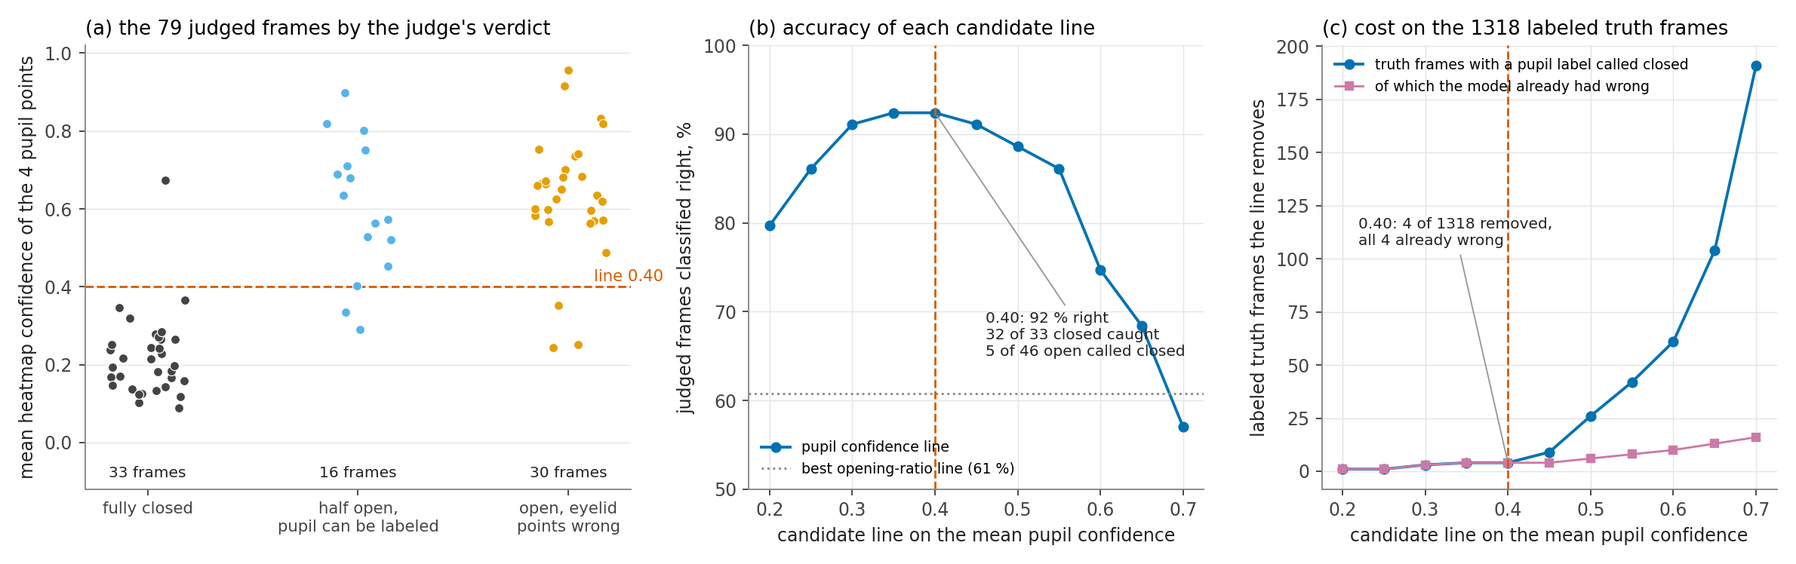
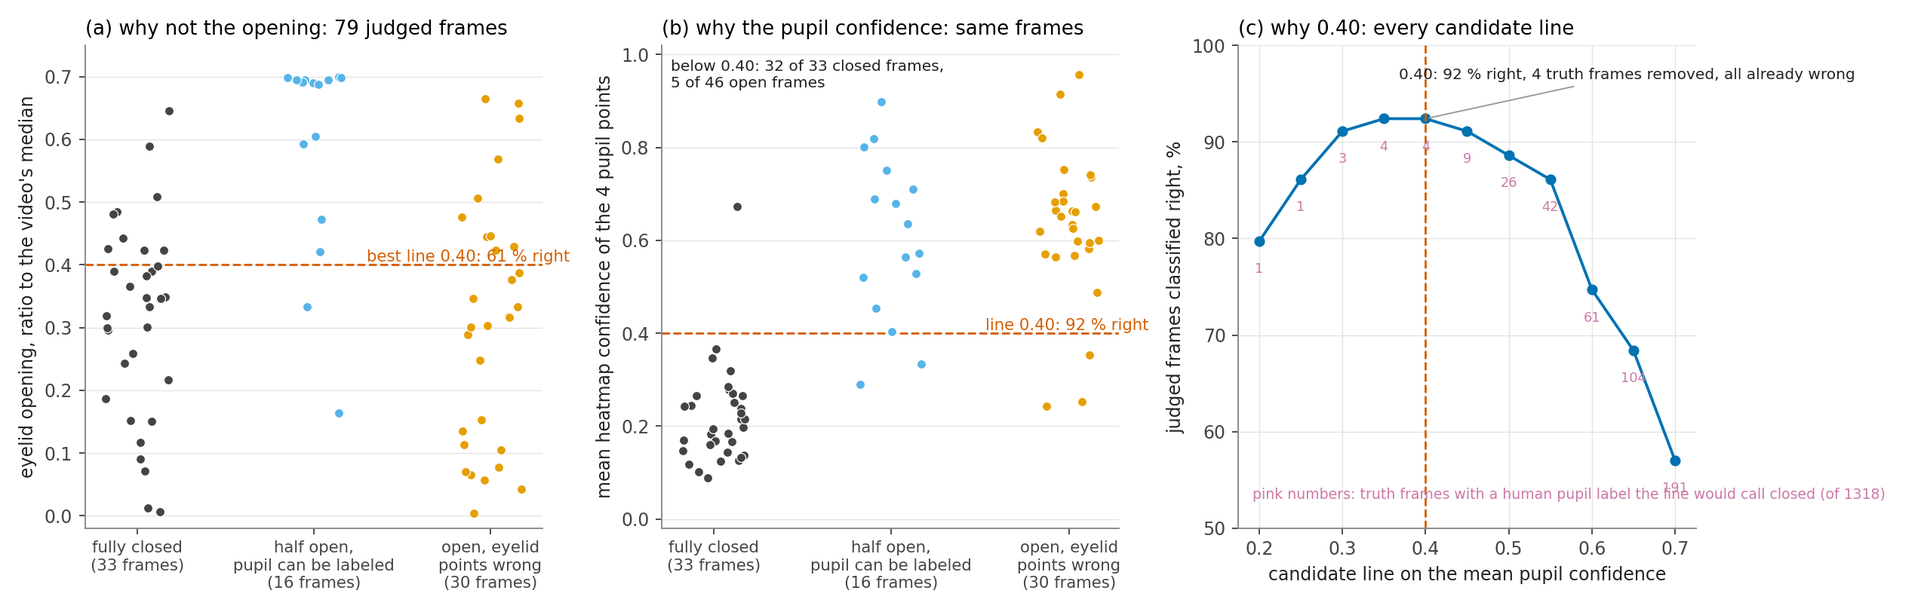
Page 4a figure: why the confidence and why 0.40 (opening and confidence of the same judged frames, every candidate line with its truth-frame cost); 5a heading

diff --git a/report/index.html b/report/index.html
@@ -81,7 +81,7 @@ math[display="block"]{margin:10px 0 6px;text-align:left;overflow-x:auto;max-widt
 
 <header>
   <h1><span lang="zh">小鼠眼睛关键点追踪：做了什么，结果是什么</span><span lang="en">Mouse eye keypoint tracking: what was done and what came out</span></h1>
-  <p class="muted small">Zhiheng Li (University of Minnesota), Kaiwen Sheng (Stanford) · <span lang="zh">页面生成时间</span><span lang="en">page built</span> 2026-11-08 10:35 · <a href="https://github.com/ZhihengLi0/mouse-behavior-tracking">GitHub: ZhihengLi0/mouse-behavior-tracking</a></p>
+  <p class="muted small">Zhiheng Li (University of Minnesota), Kaiwen Sheng (Stanford) · <span lang="zh">页面生成时间</span><span lang="en">page built</span> 2026-11-08 10:36 · <a href="https://github.com/ZhihengLi0/mouse-behavior-tracking">GitHub: ZhihengLi0/mouse-behavior-tracking</a></p>
 
   <div class="text" lang="zh">
     <p><b>任务：</b>用 DeepLabCut 在小鼠眼睛视频的每一帧上找 8 个点：瞳孔上、下、左、右，上眼睑、下眼睑，鼻侧眼角、颞侧眼角。由这 8 个点得到瞳孔大小、眼睛睁开程度和眨眼，之后与脑记录对齐。</p>
@@ -1959,8 +1959,8 @@ math[display="block"]{margin:10px 0 6px;text-align:left;overflow-x:auto;max-widt
   </tbody></table></div>
   <figure>
     <div class="figbox wide"><img src="assets/fig_loop_exp4a.png" alt="Experiment 4a: pupil confidence of the judged frames by verdict, accuracy of each candidate line, and the truth frames each line removes"></div>
-    <figcaption lang="zh"><span class="tag">图 9-22：</span>实验四 4a，为什么线定在 0.40。(a) 79 帧判定帧的瞳孔置信度，按判定分三列：全闭的帧几乎都在 0.40 以下（33 帧里 32 帧），半开和睁着的帧几乎都在 0.40 以上（46 帧里 41 帧）。(b) 每条候选线在判定帧上的准确率，0.35 和 0.40 都是 92%，虚线是开度比上最好的线（61%）。(c) 每条线在 1318 帧标了瞳孔的真值帧上排掉的帧数，0.40 排掉 4 帧、全是模型本来就错的帧；再往上代价陡增。</figcaption>
-    <figcaption lang="en"><span class="tag">Figure 9-22:</span>Experiment 4a, why the line sits at 0.40. (a) Pupil confidence of the 79 judged frames in three columns by verdict: the fully closed frames lie almost all below 0.40 (32 of 33), the half-open and open frames almost all above (41 of 46). (b) Accuracy of each candidate line on the judged frames, 0.35 and 0.40 both at 92%; the dotted line is the best opening-ratio line (61%). (c) Truth frames with a pupil label that each line removes, of 1318: 0.40 removes 4, all already wrong; above it the cost rises steeply.</figcaption>
+    <figcaption lang="zh"><span class="tag">图 9-22：</span>实验四 4a，两个问题。(a) 为什么不用开度：79 帧判定帧的开度比，按人眼判定分三列，真闭眼（深灰）和睁着但眼睑点错（橙）的帧混在同一范围，最好的一条线也只对 61%。(b) 为什么用瞳孔置信度：同样的帧换成瞳孔四点平均置信度，真闭眼几乎全在 0.40 以下（33 帧里 32 帧），睁眼几乎全在 0.40 以上（46 帧里 41 帧）。(c) 为什么是 0.40：每条候选线在判定帧上的准确率，0.35 和 0.40 并列最高（92%）；粉色数字是这条线会在 1318 帧标了瞳孔的真值帧上排掉多少帧，0.40 排掉 4 帧、全是模型本来就错的帧，再往上代价陡增，所以取 0.40。</figcaption>
+    <figcaption lang="en"><span class="tag">Figure 9-22:</span>Experiment 4a, two questions. (a) Why not the opening: the opening ratio of the 79 judged frames in three columns by verdict; truly closed eyes (dark grey) and open eyes with wrong eyelid points (orange) share the same range, and the best line is right on 61% only. (b) Why the pupil confidence: the same frames by the mean confidence of the four pupil points; the closed frames lie almost all below 0.40 (32 of 33), the open ones almost all above (41 of 46). (c) Why 0.40: accuracy of each candidate line on the judged frames, 0.35 and 0.40 tied at 92%; the pink numbers are the truth frames with a human pupil label (of 1318) the line would call closed, 4 at 0.40, all already wrong, and steeply more above it, hence 0.40.</figcaption>
   </figure>
   <div class="concl" lang="zh"><span class="tag">4a 的结论：</span>闭眼 = 瞳孔四点平均置信度低于 0.40。开度分不开真闭眼和眼睑点错的睁眼帧（最好 61%）；置信度分得开（92%，33 帧真闭眼抓到 32，46 帧睁眼误判 5），在真值帧上只排掉 4 帧、全是本来就错的帧。换成这条判据后 19 个视频判闭眼的帧从 8058 变为 7358，修复的帧从 14,395 变为 15,878；真值帧 23 帧错帧修好 16（原 15），仍标出 2（原 4），修坏仍是 1。</div>
   <div class="concl" lang="en"><span class="tag">Conclusion of 4a:</span>closed = mean confidence of the four pupil points below 0.40. The opening does not separate a truly closed eye from an open eye with wrong eyelid points (61% at best); the confidence does (92%, 32 of 33 closed frames caught, 5 of 46 open frames called closed) and removes only 4 truth frames, all already wrong. With this criterion the 19 videos have 7358 closed frames instead of 8058 and 15,878 repaired frames instead of 14,395; on the truth frames 16 of the 23 wrong frames are repaired (15 before), 2 stay flagged (4), 1 is still made worse.</div>
@@ -2002,7 +2002,7 @@ math[display="block"]{margin:10px 0 6px;text-align:left;overflow-x:auto;max-widt
   <div class="text" lang="en">
     <p>Experiments 1 to 4 each proved one part of the loop: the unflagged frames help, the repaired frames help, both together improve turn after turn, and with the confidence closed-eye rule the reopened frames help too. Experiment 5 puts the settled parts together as the final version. One part is still to settle: when several points of a frame are over the threshold and more than one replacement passes the acceptance, which points to replace. 9.3 used an order set at design time; here it is settled by experiment (5a), then the loop is run again from the starting models with every settled rule (5b).</p>
   </div>
-  <p class="text"><b><span lang="zh">5a 修复方法选择实验</span><span lang="en">5a Choosing the repair's subset rule</span></b></p>
+  <p class="text"><b><span lang="zh">5a 实验：修复方法选择</span><span lang="en">5a Experiment: choosing the repair method</span></b></p>
   <div class="tablebox"><table class="info"><tbody>
     <tr><th><span lang="zh">这一节的真值是什么</span><span lang="en">What counts as truth in this section</span></th><td><span lang="zh">两种。真值帧层：1330 帧人工标注的真值帧（和 9.3 相同），修复后误差过 0.14 眼宽算仍错。人眼层：四个变体换法不同的帧没有标注，真值是标注者本人逐帧的判定，每帧并排看到原帧、模型的 8 个点、每个不同结果一个面板（蓝圈是换上去的点，箭头从模型原来的位置指过去，结果相同的变体合成一个面板），问哪个结果的 8 个点全部在正确位置；可选的答案还有：模型原来的点就对、几个面板要合起来才对、换的点对但另有没找出来的错点、都不对、看不清。判定时看不到哪个变体是 9.3 在用的。</span><span lang="en">Two kinds. Truth-frame level: the 1330 human-labeled truth frames (as in 9.3), a frame counting as still wrong when its error after the repair is above 0.14 eye widths. By-eye level: the frames where the four variants differ have no labels, so the truth is the labeler's own frame-by-frame judgment; each frame shows side by side the raw frame, the model's 8 points and one panel per distinct result (blue circles the replaced points, arrows from the model's position, variants with the same result sharing a panel), asking which result has all 8 points right; further answers: the model as it was, several panels needed together, the moved point right but another uncaught point wrong, none, cannot tell. The judge does not see which variant 9.3 uses.</span></td></tr>
     <tr><th><span lang="zh">问题</span><span lang="en">Question</span></th><td><span lang="zh">9.3 的最小子集替换先试单点再试两点，第一个通过验收的子集就用；单点的顺序是先眼睑眼角、后瞳孔。整段 19 个视频修复的 14,395 帧里有 1398 帧（9.8%）没有换偏差最大的那个点，这是不是顺序的问题？</span><span lang="en">The smallest-subset replacement of 9.3 tries single points before pairs and uses the first subset that passes the acceptance; singles are tried outline points first, pupil points after. Of the 14,395 frames repaired on the 19 videos, 1398 (9.8%) do not replace the point of largest deviation: is the order at fault?</span></td></tr>

diff --git a/report/template.html b/report/template.html
@@ -1851,8 +1851,8 @@ math[display="block"]{margin:10px 0 6px;text-align:left;overflow-x:auto;max-widt
   </tbody></table></div>
   <figure>
     <div class="figbox wide"><img src="assets/fig_loop_exp4a.png" alt="Experiment 4a: pupil confidence of the judged frames by verdict, accuracy of each candidate line, and the truth frames each line removes"></div>
-    <figcaption lang="zh"><span class="tag">图 9-22：</span>实验四 4a，为什么线定在 0.40。(a) 79 帧判定帧的瞳孔置信度，按判定分三列：全闭的帧几乎都在 0.40 以下（33 帧里 32 帧），半开和睁着的帧几乎都在 0.40 以上（46 帧里 41 帧）。(b) 每条候选线在判定帧上的准确率，0.35 和 0.40 都是 92%，虚线是开度比上最好的线（61%）。(c) 每条线在 1318 帧标了瞳孔的真值帧上排掉的帧数，0.40 排掉 4 帧、全是模型本来就错的帧；再往上代价陡增。</figcaption>
-    <figcaption lang="en"><span class="tag">Figure 9-22:</span>Experiment 4a, why the line sits at 0.40. (a) Pupil confidence of the 79 judged frames in three columns by verdict: the fully closed frames lie almost all below 0.40 (32 of 33), the half-open and open frames almost all above (41 of 46). (b) Accuracy of each candidate line on the judged frames, 0.35 and 0.40 both at 92%; the dotted line is the best opening-ratio line (61%). (c) Truth frames with a pupil label that each line removes, of 1318: 0.40 removes 4, all already wrong; above it the cost rises steeply.</figcaption>
+    <figcaption lang="zh"><span class="tag">图 9-22：</span>实验四 4a，两个问题。(a) 为什么不用开度：79 帧判定帧的开度比，按人眼判定分三列，真闭眼（深灰）和睁着但眼睑点错（橙）的帧混在同一范围，最好的一条线也只对 61%。(b) 为什么用瞳孔置信度：同样的帧换成瞳孔四点平均置信度，真闭眼几乎全在 0.40 以下（33 帧里 32 帧），睁眼几乎全在 0.40 以上（46 帧里 41 帧）。(c) 为什么是 0.40：每条候选线在判定帧上的准确率，0.35 和 0.40 并列最高（92%）；粉色数字是这条线会在 1318 帧标了瞳孔的真值帧上排掉多少帧，0.40 排掉 4 帧、全是模型本来就错的帧，再往上代价陡增，所以取 0.40。</figcaption>
+    <figcaption lang="en"><span class="tag">Figure 9-22:</span>Experiment 4a, two questions. (a) Why not the opening: the opening ratio of the 79 judged frames in three columns by verdict; truly closed eyes (dark grey) and open eyes with wrong eyelid points (orange) share the same range, and the best line is right on 61% only. (b) Why the pupil confidence: the same frames by the mean confidence of the four pupil points; the closed frames lie almost all below 0.40 (32 of 33), the open ones almost all above (41 of 46). (c) Why 0.40: accuracy of each candidate line on the judged frames, 0.35 and 0.40 tied at 92%; the pink numbers are the truth frames with a human pupil label (of 1318) the line would call closed, 4 at 0.40, all already wrong, and steeply more above it, hence 0.40.</figcaption>
   </figure>
   <div class="concl" lang="zh"><span class="tag">4a 的结论：</span>闭眼 = 瞳孔四点平均置信度低于 0.40。开度分不开真闭眼和眼睑点错的睁眼帧（最好 61%）；置信度分得开（92%，33 帧真闭眼抓到 32，46 帧睁眼误判 5），在真值帧上只排掉 4 帧、全是本来就错的帧。换成这条判据后 19 个视频判闭眼的帧从 8058 变为 7358，修复的帧从 14,395 变为 15,878；真值帧 23 帧错帧修好 16（原 15），仍标出 2（原 4），修坏仍是 1。</div>
   <div class="concl" lang="en"><span class="tag">Conclusion of 4a:</span>closed = mean confidence of the four pupil points below 0.40. The opening does not separate a truly closed eye from an open eye with wrong eyelid points (61% at best); the confidence does (92%, 32 of 33 closed frames caught, 5 of 46 open frames called closed) and removes only 4 truth frames, all already wrong. With this criterion the 19 videos have 7358 closed frames instead of 8058 and 15,878 repaired frames instead of 14,395; on the truth frames 16 of the 23 wrong frames are repaired (15 before), 2 stay flagged (4), 1 is still made worse.</div>
@@ -1894,7 +1894,7 @@ math[display="block"]{margin:10px 0 6px;text-align:left;overflow-x:auto;max-widt
   <div class="text" lang="en">
     <p>Experiments 1 to 4 each proved one part of the loop: the unflagged frames help, the repaired frames help, both together improve turn after turn, and with the confidence closed-eye rule the reopened frames help too. Experiment 5 puts the settled parts together as the final version. One part is still to settle: when several points of a frame are over the threshold and more than one replacement passes the acceptance, which points to replace. 9.3 used an order set at design time; here it is settled by experiment (5a), then the loop is run again from the starting models with every settled rule (5b).</p>
   </div>
-  <p class="text"><b><span lang="zh">5a 修复方法选择实验</span><span lang="en">5a Choosing the repair's subset rule</span></b></p>
+  <p class="text"><b><span lang="zh">5a 实验：修复方法选择</span><span lang="en">5a Experiment: choosing the repair method</span></b></p>
   <div class="tablebox"><table class="info"><tbody>
     <tr><th><span lang="zh">这一节的真值是什么</span><span lang="en">What counts as truth in this section</span></th><td><span lang="zh">两种。真值帧层：1330 帧人工标注的真值帧（和 9.3 相同），修复后误差过 0.14 眼宽算仍错。人眼层：四个变体换法不同的帧没有标注，真值是标注者本人逐帧的判定，每帧并排看到原帧、模型的 8 个点、每个不同结果一个面板（蓝圈是换上去的点，箭头从模型原来的位置指过去，结果相同的变体合成一个面板），问哪个结果的 8 个点全部在正确位置；可选的答案还有：模型原来的点就对、几个面板要合起来才对、换的点对但另有没找出来的错点、都不对、看不清。判定时看不到哪个变体是 9.3 在用的。</span><span lang="en">Two kinds. Truth-frame level: the 1330 human-labeled truth frames (as in 9.3), a frame counting as still wrong when its error after the repair is above 0.14 eye widths. By-eye level: the frames where the four variants differ have no labels, so the truth is the labeler's own frame-by-frame judgment; each frame shows side by side the raw frame, the model's 8 points and one panel per distinct result (blue circles the replaced points, arrows from the model's position, variants with the same result sharing a panel), asking which result has all 8 points right; further answers: the model as it was, several panels needed together, the moved point right but another uncaught point wrong, none, cannot tell. The judge does not see which variant 9.3 uses.</span></td></tr>
     <tr><th><span lang="zh">问题</span><span lang="en">Question</span></th><td><span lang="zh">9.3 的最小子集替换先试单点再试两点，第一个通过验收的子集就用；单点的顺序是先眼睑眼角、后瞳孔。整段 19 个视频修复的 14,395 帧里有 1398 帧（9.8%）没有换偏差最大的那个点，这是不是顺序的问题？</span><span lang="en">The smallest-subset replacement of 9.3 tries single points before pairs and uses the first subset that passes the acceptance; singles are tried outline points first, pupil points after. Of the 14,395 frames repaired on the 19 videos, 1398 (9.8%) do not replace the point of largest deviation: is the order at fault?</span></td></tr>

diff --git a/report/index_en.html b/report/index_en.html
@@ -78,7 +78,7 @@ math[display="block"]{margin:10px 0 6px;text-align:left;overflow-x:auto;max-widt
 
 <header>
   <h1><span lang="en">Mouse eye keypoint tracking: what was done and what came out</span></h1>
-  <p class="muted small">Zhiheng Li (University of Minnesota), Kaiwen Sheng (Stanford) · <span lang="en">page built</span> 2026-11-08 10:35 · <a href="https://github.com/ZhihengLi0/mouse-behavior-tracking">GitHub: ZhihengLi0/mouse-behavior-tracking</a></p>
+  <p class="muted small">Zhiheng Li (University of Minnesota), Kaiwen Sheng (Stanford) · <span lang="en">page built</span> 2026-11-08 10:36 · <a href="https://github.com/ZhihengLi0/mouse-behavior-tracking">GitHub: ZhihengLi0/mouse-behavior-tracking</a></p>
 
   
   <div class="text" lang="en">
@@ -1496,7 +1496,7 @@ math[display="block"]{margin:10px 0 6px;text-align:left;overflow-x:auto;max-widt
   <figure>
     <div class="figbox wide"><img src="assets/fig_loop_exp4a.png" alt="Experiment 4a: pupil confidence of the judged frames by verdict, accuracy of each candidate line, and the truth frames each line removes"></div>
     
-    <figcaption lang="en"><span class="tag">Figure 9-22:</span>Experiment 4a, why the line sits at 0.40. (a) Pupil confidence of the 79 judged frames in three columns by verdict: the fully closed frames lie almost all below 0.40 (32 of 33), the half-open and open frames almost all above (41 of 46). (b) Accuracy of each candidate line on the judged frames, 0.35 and 0.40 both at 92%; the dotted line is the best opening-ratio line (61%). (c) Truth frames with a pupil label that each line removes, of 1318: 0.40 removes 4, all already wrong; above it the cost rises steeply.</figcaption>
+    <figcaption lang="en"><span class="tag">Figure 9-22:</span>Experiment 4a, two questions. (a) Why not the opening: the opening ratio of the 79 judged frames in three columns by verdict; truly closed eyes (dark grey) and open eyes with wrong eyelid points (orange) share the same range, and the best line is right on 61% only. (b) Why the pupil confidence: the same frames by the mean confidence of the four pupil points; the closed frames lie almost all below 0.40 (32 of 33), the open ones almost all above (41 of 46). (c) Why 0.40: accuracy of each candidate line on the judged frames, 0.35 and 0.40 tied at 92%; the pink numbers are the truth frames with a human pupil label (of 1318) the line would call closed, 4 at 0.40, all already wrong, and steeply more above it, hence 0.40.</figcaption>
   </figure>
   
   <div class="concl" lang="en"><span class="tag">Conclusion of 4a:</span>closed = mean confidence of the four pupil points below 0.40. The opening does not separate a truly closed eye from an open eye with wrong eyelid points (61% at best); the confidence does (92%, 32 of 33 closed frames caught, 5 of 46 open frames called closed) and removes only 4 truth frames, all already wrong. With this criterion the 19 videos have 7358 closed frames instead of 8058 and 15,878 repaired frames instead of 14,395; on the truth frames 16 of the 23 wrong frames are repaired (15 before), 2 stay flagged (4), 1 is still made worse.</div>
@@ -1536,7 +1536,7 @@ math[display="block"]{margin:10px 0 6px;text-align:left;overflow-x:auto;max-widt
   <div class="text" lang="en">
     <p>Experiments 1 to 4 each proved one part of the loop: the unflagged frames help, the repaired frames help, both together improve turn after turn, and with the confidence closed-eye rule the reopened frames help too. Experiment 5 puts the settled parts together as the final version. One part is still to settle: when several points of a frame are over the threshold and more than one replacement passes the acceptance, which points to replace. 9.3 used an order set at design time; here it is settled by experiment (5a), then the loop is run again from the starting models with every settled rule (5b).</p>
   </div>
-  <p class="text"><b><span lang="en">5a Choosing the repair's subset rule</span></b></p>
+  <p class="text"><b><span lang="en">5a Experiment: choosing the repair method</span></b></p>
   <div class="tablebox"><table class="info"><tbody>
     <tr><th><span lang="en">What counts as truth in this section</span></th><td><span lang="en">Two kinds. Truth-frame level: the 1330 human-labeled truth frames (as in 9.3), a frame counting as still wrong when its error after the repair is above 0.14 eye widths. By-eye level: the frames where the four variants differ have no labels, so the truth is the labeler's own frame-by-frame judgment; each frame shows side by side the raw frame, the model's 8 points and one panel per distinct result (blue circles the replaced points, arrows from the model's position, variants with the same result sharing a panel), asking which result has all 8 points right; further answers: the model as it was, several panels needed together, the moved point right but another uncaught point wrong, none, cannot tell. The judge does not see which variant 9.3 uses.</span></td></tr>
     <tr><th><span lang="en">Question</span></th><td><span lang="en">The smallest-subset replacement of 9.3 tries single points before pairs and uses the first subset that passes the acceptance; singles are tried outline points first, pupil points after. Of the 14,395 frames repaired on the 19 videos, 1398 (9.8%) do not replace the point of largest deviation: is the order at fault?</span></td></tr>

diff --git a/v2_new_pupil_top_video_scaling/scripts/self_training_figures.py b/v2_new_pupil_top_video_scaling/scripts/self_training_figures.py
@@ -347,9 +347,9 @@ def _closed_counts(v, model):
 
 
 def fig_exp4a():
-    """Experiment 4a: why the closed-eye line sits at a mean pupil confidence of 0.40. (a) the judged frames' confidence
-    by verdict; (b) accuracy of every candidate line on the judged frames, the best opening-ratio line as reference;
-    (c) what each line costs on the labeled truth frames."""
+    """Experiment 4a, two questions: why the pupil confidence (the opening ratio does not separate the judged closed
+    frames from the open ones, the confidence does) and why 0.40 (accuracy of every candidate line, with the truth
+    frames each line would remove)."""
     S = pd.read_csv(FAR / "closed_frames" / "sample.csv")
     V = pd.read_csv(FAR / "closed_frames" / "closed_review_verdicts.csv")
     V = V[~V.item.str.contains(":")]
@@ -358,50 +358,47 @@ def fig_exp4a():
     chosen = float(pd.read_csv(FAR / "closed_frames" / "closed_line_chosen.csv").iloc[0].pupil_confidence_line)
     C = pd.read_csv(FAR / "closed_frames" / "confidence_line_candidates.csv")
     O = pd.read_csv(FAR / "closed_frames" / "line_candidates.csv")
+    closed = J.verdict == "fully closed"
     cats = [("fully closed", "#444444"), ("half open, pupil can be labeled", "#56b4e9"), ("open, eyelid points wrong", "#e69f00")]
-    fig, axes = plt.subplots(1, 3, figsize=(14, 4.4), gridspec_kw={"width_ratios": [1.2, 1, 1]})
-    ax = axes[0]
+    fig, axes = plt.subplots(1, 3, figsize=(15, 4.8))
     rng = np.random.default_rng(0)
-    for k, (cat, c) in enumerate(cats):
-        y = J.pupil_lk_mean[J.verdict == cat].to_numpy()
-        ax.scatter(k + rng.uniform(-0.18, 0.18, len(y)), y, s=26, color=c, edgecolor="white", linewidth=0.5, zorder=3)
-        ax.text(k, -0.06, f"{len(y)} frames", ha="center", va="top", fontsize=8.5, color="#222")
-    ax.axhline(chosen, color="#d55e00", lw=1.2, ls="--")
-    ax.text(2.45, chosen + 0.015, f"line {chosen:.2f}", color="#d55e00", fontsize=9, ha="right")
-    ax.set_xticks(range(3))
-    ax.set_xticklabels(["fully closed", "half open,\npupil can be labeled", "open, eyelid\npoints wrong"], fontsize=9)
-    ax.set_ylabel("mean heatmap confidence of the 4 pupil points")
-    ax.set_ylim(-0.12, 1.02)
-    ax.set_title(f"(a) the {len(J)} judged frames by the judge's verdict", loc="left")
-    ax.grid(axis="y", color="#e4e4e4", linewidth=0.6)
-    ax.set_axisbelow(True)
-    ax = axes[1]
-    ax.plot(C.line, C.accuracy_pct, "-o", color="#0072b2", ms=5, lw=1.6, label="pupil confidence line")
-    ax.axhline(O.accuracy_pct.max(), color="#888", lw=1.2, ls=":", label=f"best opening-ratio line ({O.accuracy_pct.max():.0f} %)")
-    ax.axvline(chosen, color="#d55e00", lw=1.2, ls="--")
+
+    def strip(ax, col, ylabel, title, line=None, line_label=None):
+        for k, (cat, c) in enumerate(cats):
+            y = J[col][J.verdict == cat].to_numpy()
+            ax.scatter(k + rng.uniform(-0.18, 0.18, len(y)), y, s=26, color=c, edgecolor="white", linewidth=0.5, zorder=3)
+        if line is not None:
+            ax.axhline(line, color="#d55e00", lw=1.2, ls="--")
+            ax.text(2.45, line, line_label, color="#d55e00", fontsize=9, ha="right", va="bottom")
+        ax.set_xticks(range(3))
+        ax.set_xticklabels([f"{lab}\n({int((J.verdict == cat).sum())} frames)" for (cat, _), lab in zip(cats, ("fully closed", "half open,\npupil can be labeled", "open, eyelid\npoints wrong"))], fontsize=9)
+        ax.set_ylabel(ylabel)
+        ax.set_title(title, loc="left")
+        ax.grid(axis="y", color="#e4e4e4", linewidth=0.6)
+        ax.set_axisbelow(True)
+
+    ob = O.loc[O.accuracy_pct.idxmax()]
+    strip(axes[0], "r", "eyelid opening, ratio to the video's median", f"(a) why not the opening: {len(J)} judged frames",
+          line=float(ob.line), line_label=f"best line {ob.line:.2f}: {ob.accuracy_pct:.0f} % right")
+    axes[0].set_ylim(-0.02, 0.75)
     r = C[np.isclose(C.line, chosen)].iloc[0]
-    ax.annotate(f"{chosen:.2f}: {r.accuracy_pct:.0f} % right\n{int(r.closed_caught)} of {int(r.closed_total)} closed caught\n{int(r.not_closed_called_closed)} of {len(J) - int(r.closed_total)} open called closed",
-                (chosen, r.accuracy_pct), (0.52, 0.30), textcoords="axes fraction", fontsize=8.5, color="#222",
-                arrowprops=dict(arrowstyle="-", color="#999", lw=0.8))
+    strip(axes[1], "pupil_lk_mean", "mean heatmap confidence of the 4 pupil points", "(b) why the pupil confidence: same frames",
+          line=chosen, line_label=f"line {chosen:.2f}: {r.accuracy_pct:.0f} % right")
+    axes[1].set_ylim(-0.02, 1.02)
+    axes[1].text(0.02, 0.97, f"below {chosen:.2f}: {int((closed & (J.pupil_lk_mean < chosen)).sum())} of {int(closed.sum())} closed frames,\n{int((~closed & (J.pupil_lk_mean < chosen)).sum())} of {int((~closed).sum())} open frames",
+                 transform=axes[1].transAxes, va="top", fontsize=8.5, color="#222")
+    ax = axes[2]
+    ax.plot(C.line, C.accuracy_pct, "-o", color="#0072b2", ms=5, lw=1.6)
+    ax.axvline(chosen, color="#d55e00", lw=1.2, ls="--")
+    for _, q in C.iterrows():
+        ax.text(q.line, q.accuracy_pct - 2.2, f"{int(q.labeled_truth_frames_called_closed)}", ha="center", va="top", fontsize=7.5, color="#cc79a7")
+    ax.text(0.03, 0.06, "pink numbers: truth frames with a human pupil label the line would call closed (of 1318)", transform=ax.transAxes, fontsize=8, color="#cc79a7")
+    ax.annotate(f"{chosen:.2f}: {r.accuracy_pct:.0f} % right, {int(r.labeled_truth_frames_called_closed)} truth frames removed, all already wrong",
+                (chosen, r.accuracy_pct), (0.35, 0.93), textcoords="axes fraction", fontsize=8.5, color="#222", arrowprops=dict(arrowstyle="-", color="#999", lw=0.8))
     ax.set_xlabel("candidate line on the mean pupil confidence")
     ax.set_ylabel("judged frames classified right, %")
     ax.set_ylim(50, 100)
-    ax.set_title("(b) accuracy of each candidate line", loc="left")
-    ax.legend(frameon=False, fontsize=8, loc="lower left")
-    ax.grid(color="#e4e4e4", linewidth=0.6)
-    ax.set_axisbelow(True)
-    ax = axes[2]
-    ax.plot(C.line, C.labeled_truth_frames_called_closed, "-o", color="#0072b2", ms=5, lw=1.6, label="truth frames with a pupil label called closed")
-    ax.plot(C.line, C.of_which_wrong_frames, "-s", color="#cc79a7", ms=4, lw=1.2, label="of which the model already had wrong")
-    ax.axvline(chosen, color="#d55e00", lw=1.2, ls="--")
-    r = C[np.isclose(C.line, chosen)].iloc[0]
-    ax.annotate(f"{chosen:.2f}: {int(r.labeled_truth_frames_called_closed)} of {int(r.labeled_truth_frames)} removed,\nall {int(r.of_which_wrong_frames)} already wrong",
-                (chosen, r.labeled_truth_frames_called_closed), (0.08, 0.55), textcoords="axes fraction", fontsize=8.5, color="#222",
-                arrowprops=dict(arrowstyle="-", color="#999", lw=0.8))
-    ax.set_xlabel("candidate line on the mean pupil confidence")
-    ax.set_ylabel("labeled truth frames the line removes")
-    ax.set_title(f"(c) cost on the {int(C.labeled_truth_frames.iloc[0])} labeled truth frames", loc="left")
-    ax.legend(frameon=False, fontsize=8, loc="upper left")
+    ax.set_title("(c) why 0.40: every candidate line", loc="left")
     ax.grid(color="#e4e4e4", linewidth=0.6)
     ax.set_axisbelow(True)
     fig.tight_layout()
